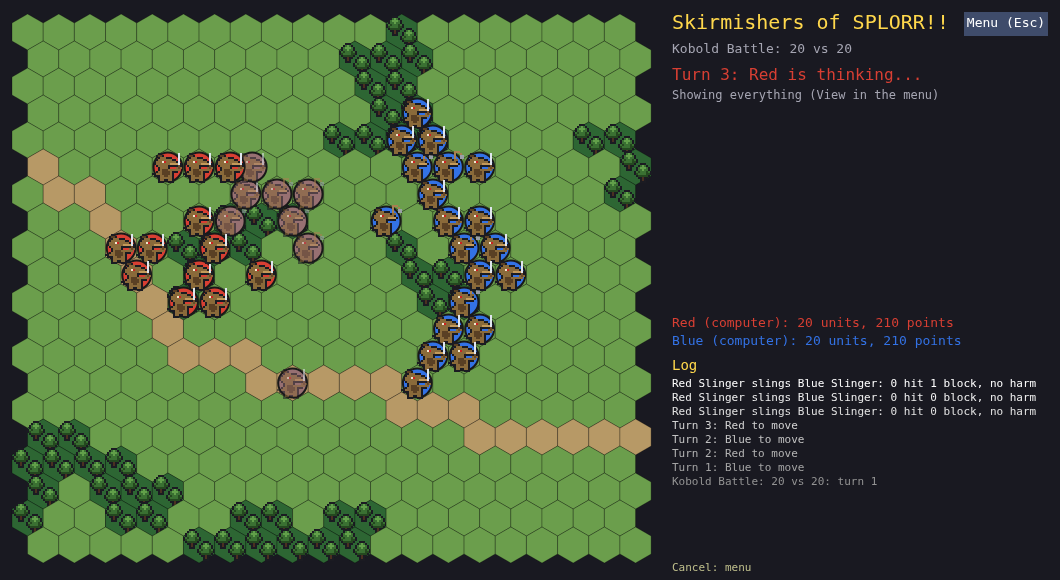
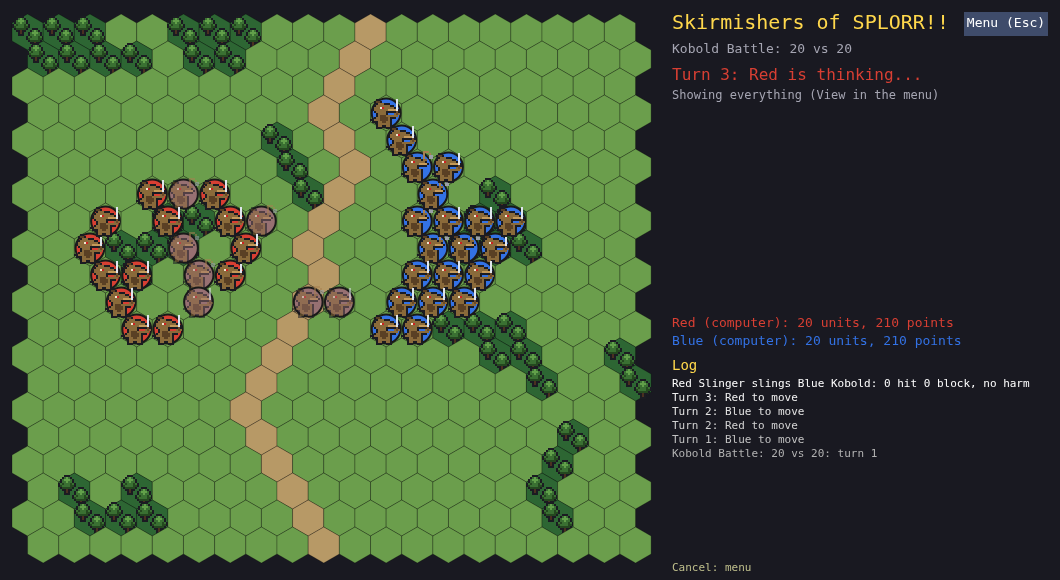
Ship prep for November 16: page copy, screenshots, devlog, hidden feedback form
ITCH_DESCRIPTION.md rewritten for the game as it is now (ten unit kinds, high ground, fog,
water and walls, fifteen scenarios, custom battles, all four control schemes).
tools/shots.sh now captures River Crossing, the 20 vs 20 battle, Walled Farmsteads, the
Kobold Warband and a 4 vs 4 fight; cover regenerated. devlog/20261116 draft (Launch post).
The shared LootLocker kit (lootlocker.js v2) with a Send feedback link that stays hidden
until a LootLocker game's domain and key are set.

diff --git a/web/lootlocker.js b/web/lootlocker.js
@@ -1,0 +1,272 @@
+// SPLORR!! LootLocker shim, version 2 (November 7, 2026; version 2 adds feedback). Source of truth: the
+// bok-of-splorr vault, splorr/Tech/lootlocker/. Copy it into a game's web/ folder unchanged; per-game
+// settings go in the page. How to use it: splorr/Tech/LootLocker.md.
+//
+// Talks to LootLocker's Game API from the browser: guest sign-in, player name, leaderboards, player storage,
+// server time and feedback reports. The key is a game's public client key, not a secret. Every host that serves the page must
+// be on the LootLocker game's CORS Allowlist (GitHub Pages: https://playdeezgames.github.io; itch.io:
+// https://html-classic.itch.zone). Nothing here is cheat-proof: whatever the client sends is trusted.
+//
+//   const ll = LootLocker({ domain, key, version, idKey });
+//   ll.setName("DR WHO");                       // renamed on the server with the next call
+//   const rows = await ll.list("board_key", 10); // [{ rank, score, name, metadata, mine }]
+//   await ll.submit("board_key", 1540, "optional metadata");
+//   await ll.storageSet("save", json); const v = await ll.storageGet("save"); // null when missing
+//   const when = await ll.serverTime();          // a Date, from LootLocker's clock
+//   const fb = ll.feedbackDialog({ game: "Chem-Grid" }); fb.open(); // a ready-made report form
+//
+// For an Odin game, ll.odinImports(memory) gives the "lootlocker" import namespace that the shared Odin
+// package (lootlocker.odin) expects; pass it to odin.runWasm next to the game's own namespace.
+"use strict";
+
+function LootLocker(cfg) {
+  const domain = cfg.domain || "";
+  const key = cfg.key || "";
+  const version = cfg.version || "1.0.0";
+  const nameMax = cfg.nameMax || 16;
+
+  // localStorage that may be missing (private windows, blocked storage): fall back to memory.
+  const mem = new Map();
+  const store = {
+    get: (k) => { try { const v = localStorage.getItem(k); return v === null ? mem.get(k) ?? null : v; } catch (e) { return mem.get(k) ?? null; } },
+    set: (k, v) => { mem.set(k, v); try { localStorage.setItem(k, v); } catch (e) {} },
+  };
+
+  // The anonymous id LootLocker's guest login keys the player on. Whoever knows it is that player, so it
+  // doubles as a transfer code: show it only on request and treat it as a secret. itch.io serves every
+  // developer's HTML games from one origin, so idKey must be namespaced (e.g. "splorr-ll-player").
+  const idKey = cfg.idKey || "splorr-ll-player";
+  const newId = () => Array.from(crypto.getRandomValues(new Uint8Array(12)), (b) => b.toString(16).padStart(2, "0")).join("");
+  let playerId = store.get(idKey);
+  if (!playerId) { playerId = newId(); store.set(idKey, playerId); }
+
+  let playerName = "";
+  let session = null, pending = null, serverName = null;
+
+  const call = async (method, path, token, body) => {
+    const headers = { "Content-Type": "application/json" };
+    if (token) headers["x-session-token"] = token;
+    const r = await fetch(domain + path, { method, headers, body: body === undefined ? undefined : JSON.stringify(body) });
+    if (!r.ok) {
+      let why = "";
+      try { why = (await r.json()).message || ""; } catch (e) {}
+      throw new Error(method + " " + path + " " + r.status + (why ? ": " + why : ""));
+    }
+    return r.status === 204 ? null : r.json();
+  };
+
+  const signIn = () => {
+    if (!domain || !key) return Promise.reject(new Error("LootLocker not configured"));
+    if (session) return Promise.resolve(session);
+    if (!pending) {
+      pending = (async () => {
+        const s = await call("POST", "/game/v2/session/guest", null, {
+          // development_mode no longer selects different data (Stage and Live were retired); sent as JetLag does.
+          game_key: key, game_version: version, development_mode: true, player_identifier: playerId,
+        });
+        session = { token: s.session_token, player: String(s.player_id), uid: s.public_uid };
+        serverName = s.player_name || "";
+        return session;
+      })().finally(() => { pending = null; });
+    }
+    return pending;
+  };
+
+  // Runs fn with a session whose name is up to date. Tokens expire, so one failure signs in again and retries.
+  const withSession = async (fn) => {
+    const run = async () => {
+      const s = await signIn();
+      if (playerName && serverName !== playerName) {
+        await call("PATCH", "/game/player/name", s.token, { name: playerName });
+        serverName = playerName;
+      }
+      return fn(s);
+    };
+    try { return await run(); } catch (e) { session = null; return run(); }
+  };
+
+  const cleanName = (text) => String(text).replace(/[^\x20-\x7e]/g, "?").slice(0, nameMax);
+  const enc = encodeURIComponent;
+
+  const api = {
+    get playerId() { return playerId; },
+    // Adopt a transfer code typed on another device: this browser becomes that player from the next call.
+    adoptPlayerId(code) {
+      const c = String(code).trim().toLowerCase();
+      if (!/^[0-9a-f]{24}$/.test(c)) return false;
+      playerId = c; store.set(idKey, c); session = null; serverName = null;
+      return true;
+    },
+    setName(name) { playerName = cleanName(name); },
+    signIn,
+
+    // Top `count` rows of a board, best first. `mine` marks this player's row.
+    async list(board, count = 10) {
+      return withSession(async (s) => {
+        const r = await call("GET", "/game/leaderboards/" + enc(board) + "/list?count=" + count, s.token);
+        return (r.items || []).map((row) => ({
+          rank: row.rank,
+          score: Math.max(0, Math.min(Number(row.score) || 0, 2147483647)),
+          name: cleanName((row.player && (row.player.name || row.player.public_uid)) || "?"),
+          metadata: row.metadata || "",
+          mine: String(row.member_id) === s.player || (row.player && String(row.player.id) === s.player),
+        }));
+      });
+    },
+    // This player's own entry on a board, or null when they have none.
+    async mine(board) {
+      return withSession(async (s) => {
+        const r = await call("GET", "/game/leaderboards/" + enc(board) + "/member/" + enc(s.player), s.token);
+        return r && r.rank ? { rank: r.rank, score: Number(r.score) || 0, metadata: r.metadata || "" } : null;
+      });
+    },
+    async submit(board, score, metadata) {
+      return withSession((s) => {
+        const body = { member_id: s.player, score: Math.max(0, Math.floor(score)) };
+        if (metadata) body.metadata = String(metadata);
+        return call("POST", "/game/leaderboards/" + enc(board) + "/submit", s.token, body);
+      });
+    },
+
+    // Player storage: keys up to 60 characters, values up to 1,500. A public value is readable by anyone.
+    // An empty value counts as missing (see storageDelete).
+    async storageGet(k) {
+      return withSession(async (s) => {
+        const r = await call("GET", "/game/v1/player/storage?key=" + enc(k), s.token);
+        const p = r && r.payload;
+        const item = Array.isArray(p) ? p.find((x) => x.key === k) : p;
+        return item && item.key === k && item.value !== "" ? item.value : null;
+      });
+    },
+    async storageSet(k, value, isPublic = false) {
+      return withSession((s) => call("POST", "/game/v1/player/storage", s.token,
+        { payload: [{ key: k, value: String(value), is_public: !!isPublic, order: 1 }] }));
+    },
+    // Writes an empty value instead of calling DELETE: after a DELETE (which answers 200) reads kept returning
+    // the old value for seconds or more, while overwrites read back at once (tested November 7, 2026).
+    async storageDelete(k) {
+      return api.storageSet(k, "");
+    },
+
+    // LootLocker's clock, so a daily seed is the same for every player whatever their own clock says.
+    async serverTime() {
+      return withSession(async (s) => new Date((await call("GET", "/game/ping", s.token)).date));
+    },
+
+    // Feedback reports. Categories are made per entity type (game, player, ugc) in the console under
+    // Feedback, Settings; none exist on a new LootLocker game and a report needs one. Reports about the game
+    // need no entity_id (tested November 7, 2026) and show in the console under Feedback, Game.
+    // The list path is /game/feedback/category/entity/{entity}; the reference's /game/feedback/entity/{entity} is a 404.
+    async feedbackCategories(entity = "game") {
+      return withSession(async (s) => {
+        const r = await call("GET", "/game/feedback/category/entity/" + enc(entity), s.token);
+        return ((r && r.categories) || []).map((c) => ({ id: c.id, name: c.name, description: c.description || "" }));
+      });
+    },
+    async feedback(categoryId, description, entity = "game", entityId) {
+      return withSession((s) => {
+        const body = { entity, category_id: categoryId, description: String(description) };
+        if (entityId) body.entity_id = entityId;
+        return call("POST", "/game/feedback", s.token, body);
+      });
+    },
+
+    // A ready-made feedback form in a <dialog>: category, text, Send. Keys typed in it do not reach the
+    // game (keydown stops at the dialog). opts: game (name, for the context line), maxLength (default
+    // 1000), context() (extra text appended to the report, e.g. the screen or level), onClose().
+    // Style it from the page with the .ll-feedback class; the defaults follow the page's font and colours.
+    feedbackDialog(opts = {}) {
+      const maxLength = opts.maxLength || 1000;
+      if (!document.getElementById("ll-feedback-style")) {
+        const st = document.createElement("style");
+        st.id = "ll-feedback-style";
+        st.textContent = ".ll-feedback{font:inherit;color:inherit;background:inherit;border:2px solid currentColor;max-width:min(420px,92vw);width:100%;box-sizing:border-box;padding:12px}" +
+          ".ll-feedback::backdrop{background:rgba(0,0,0,.4)}.ll-feedback h2{margin:0 0 6px;font-size:1.3em}.ll-feedback p{margin:0 0 8px}" +
+          ".ll-feedback select,.ll-feedback textarea,.ll-feedback button{font:inherit;color:inherit;background:transparent;border:1px solid currentColor;padding:4px;box-sizing:border-box}" +
+          ".ll-feedback textarea{width:100%;height:8em;resize:vertical;display:block;margin:6px 0}.ll-feedback .row{display:flex;gap:8px;justify-content:flex-end;align-items:center}" +
+          ".ll-feedback .status{flex:1;min-height:1.4em}";
+        document.head.appendChild(st);
+      }
+      const d = document.createElement("dialog");
+      d.className = "ll-feedback";
+      d.innerHTML = '<form method="dialog"><h2>Send feedback</h2>' +
+        "<p>Goes to the developer through LootLocker. Please leave out personal details.</p>" +
+        '<label>Kind: <select name="cat" required><option value="">Loading...</option></select></label>' +
+        '<textarea name="text" required placeholder="What happened, or what would you like?"></textarea>' +
+        '<div class="row"><span class="status" role="status"></span>' +
+        '<button type="button" value="cancel">Cancel</button><button type="submit" value="send">Send</button></div></form>';
+      document.body.appendChild(d);
+      const form = d.querySelector("form"), sel = form.cat, text = form.text, status = d.querySelector(".status");
+      const send = form.querySelector('[value="send"]');
+      text.maxLength = maxLength;
+      d.addEventListener("keydown", (e) => e.stopPropagation());
+      d.addEventListener("keyup", (e) => e.stopPropagation());
+      d.addEventListener("close", () => { if (opts.onClose) opts.onClose(); });
+      form.querySelector('[value="cancel"]').addEventListener("click", () => d.close());
+      let loaded = false;
+      const load = async () => {
+        try {
+          const cats = await api.feedbackCategories("game");
+          if (!cats.length) throw new Error("no categories");
+          sel.innerHTML = '<option value="">Choose...</option>' + cats.map((c) =>
+            '<option value="' + c.id + '" title="' + c.description.replace(/"/g, "&quot;") + '">' + c.name.replace(/</g, "&lt;") + "</option>").join("");
+          loaded = true; send.disabled = false; status.textContent = "";
+        } catch (e) {
+          sel.innerHTML = '<option value="">Unavailable</option>';
+          send.disabled = true; status.textContent = "Could not reach the feedback service. Offline?";
+        }
+      };
+      form.addEventListener("submit", async (e) => {
+        e.preventDefault();
+        if (!sel.value || !text.value.trim()) { status.textContent = "Pick a kind and write something."; return; }
+        send.disabled = true; status.textContent = "Sending...";
+        const extra = opts.context ? String(opts.context() || "") : "";
+        const line = [opts.game || document.title, version, location.hostname, innerWidth + "x" + innerHeight, extra].filter(Boolean).join(" · ");
+        try {
+          await api.feedback(sel.value, text.value.trim() + "\n\n-- " + line);
+          text.value = ""; status.textContent = "Sent. Thank you!";
+          setTimeout(() => { if (d.open) d.close(); status.textContent = ""; send.disabled = false; }, 1500);
+        } catch (err) {
+          status.textContent = "Could not send. Try again later."; send.disabled = false;
+        }
+      });
+      return {
+        open() {
+          if (d.open) return;
+          status.textContent = ""; send.disabled = !loaded;
+          d.showModal();
+          if (!loaded) load();
+          text.focus();
+        },
+        close() { if (d.open) d.close(); },
+        get isOpen() { return d.open; },
+      };
+    },
+
+    // The "lootlocker" import namespace for the shared Odin package. Results come back through its exports.
+    // boardFor maps the key the game asks for to the real board (e.g. to a test board on ?board=test).
+    odinImports(memory, boardFor = (k) => k) {
+      const ex = () => memory.exports;
+      const putName = (text) => {
+        const bytes = new Uint8Array(memory.memory.buffer, ex().lootlocker_scratch(), nameMax);
+        const n = Math.min(text.length, nameMax);
+        for (let i = 0; i < n; i++) bytes[i] = text.charCodeAt(i);
+        return n;
+      };
+      return {
+        ll_name: (ptr, len) => { api.setName(memory.loadString(ptr, len)); },
+        ll_refresh: (ptr, len, count) => {
+          api.list(boardFor(memory.loadString(ptr, len)), count).then((rows) => {
+            ex().lootlocker_begin();
+            for (const r of rows) ex().lootlocker_add(r.score, putName(r.name), r.mine ? 1 : 0);
+            ex().lootlocker_status(1);
+          }).catch(() => ex().lootlocker_status(0));
+        },
+        ll_submit: (ptr, len, score) => {
+          api.submit(boardFor(memory.loadString(ptr, len)), score).then(() => ex().lootlocker_sent(1), () => ex().lootlocker_sent(0));
+        },
+      };
+    },
+  };
+  return api;
+}

diff --git a/web/index.html b/web/index.html
@@ -17,11 +17,31 @@
 <body>
 	<canvas id="canvas" width="1060" height="580"></canvas>
 	<footer>
-		Skirmishers of SPLORR!! by TheGrumpyGameDev. Made by an AI agent (Claude Code) at the author's direction.
-		<a href="https://thegrumpygamedev.itch.io/">itch.io</a> · <a href="https://playdeezgames.github.io/oeuvre-of-splorr/">more games</a>
+		Skirmishers of SPLORR!! by TheGrumpyGameDev. Made by an AI agent (Claude Code) at the author's direction.<span class="ll-only" hidden> Feedback by LootLocker.</span>
+		<span class="ll-only" hidden><a href="#" id="feedback-link">Send feedback</a> · </span><a href="https://thegrumpygamedev.itch.io/">itch.io</a> · <a href="https://playdeezgames.github.io/oeuvre-of-splorr/">more games</a>
 	</footer>
 	<pre id="log"></pre>
 	<script src="odin.js"></script>
+	<script src="lootlocker.js"></script>
+	<script>
+	// Feedback (the shared SPLORR!! LootLocker kit's form, splorr/Tech/LootLocker.md in the vault): reports go
+	// to the LootLocker console under Feedback, Game. The link stays hidden until LL_KEY is filled in.
+	// TODO to switch it on: a LootLocker game (the user's call) with Guest Login on, the CORS Allowlist
+	// (https://playdeezgames.github.io, https://html-classic.itch.zone, http://localhost:8123) and Game feedback
+	// categories (Bug, Idea, Other); then its API domain and public Game API key (not a secret) below.
+	const LL_DOMAIN = "";
+	const LL_KEY = "";
+	const feedback = LL_KEY ? LootLocker({
+		domain: LL_DOMAIN,
+		key: LL_KEY,
+		version: "1.0.0",
+		idKey: "skirmishers:ll-player",
+	}).feedbackDialog({ game: "Skirmishers of SPLORR!!" }) : null;
+	if (feedback) {
+		for (const el of document.querySelectorAll(".ll-only")) el.hidden = false;
+		document.getElementById("feedback-link").addEventListener("click", (e) => { e.preventDefault(); feedback.open(); });
+	}
+	</script>
 	<script>
 		const cv = document.getElementById("canvas");
 		const g = cv.getContext("2d");

diff --git a/ITCH_DESCRIPTION.md b/ITCH_DESCRIPTION.md
@@ -1,35 +1,50 @@
-Page: https://thegrumpygamedev.itch.io/skirmishers-of-splorr (not created yet)
+Page: https://thegrumpygamedev.itch.io/skirmishers-of-splorr (not created yet; the slug is a guess until it exists)
 Jam: none
-Pasted in by hand; nothing here is published by the repo.
+Kind of project: HTML, played in the browser. Embed: "Click to launch in fullscreen", mobile friendly.
+Pasted in by hand; nothing here is published by the repo. Refreshed November 15, 2026 for the first itch.io release.
 
 Latest version: https://playdeezgames.github.io/skirmishers-of-splorr/
 
-## Short description (112 of 120 characters)
+## Short description (117 of 120 characters)
 
-Kobolds with daggers and slings fight over forests and roads on a hex map. HeroQuest-style dice, in the browser.
+Kobold warbands clash over rivers, walls and hills on a hex map. HeroQuest-style dice and fog of war, in the browser.
 
 ## Body
 
 **Skirmishers of SPLORR!!**
 
-A hex-and-counter wargame for one player. You command a band of kobolds against a computer army on a 20 by 20 hex map of grass, forest and road.
+A hex-and-counter wargame for one player. You command a band of kobolds against a computer army on a 20 by 20 hex map of grass, forest, hills, roads, rivers and walls.
+
+Plays in your browser on a computer, tablet or phone, with keyboard, mouse, gamepad or touch.
 
 **How it plays**
 
-- Attackers roll attack dice, defenders roll defence dice, and every hit not blocked costs a body point. Kobolds have one.
-- Kobolds stab with daggers. Kobold Slingers sling from 2 or 3 hexes away, and fall back on their daggers up close.
-- Forest is slow going and blocks sling shots. Roads are quick.
-- Fog of war: you see only what your kobolds see. Enemies hide in the woods until you are close, and the computer knows no more than its own scouts do.
-- Each unit moves, then may attack. Or it can fortify and dig in: until your next turn, every failed defence die is rolled again.
-
-**Controls**
-
-Click a unit to select it, then click a yellow hex to move or a red-outlined enemy to attack. D fortifies, F finishes a unit's move, Space ends the turn, N starts a new game, and [ ] changes scenario.
+- **Dice.** Attackers roll attack dice, defenders roll defence dice. White dice score 1 in 3, red 1 in 2, black 2 in 3. Every hit not blocked costs a body point, and wounds stay.
+- **Ten kinds of kobold.** Daggers, slings, axes, swords, bows, crossbows that pierce armour, pikes that strike first when an enemy steps next to them, fast scouts, sappers that break walls into rubble, and the Wololo, who blesses friends and curses enemies.
+- **Armour.** Leather, chain and plate add defence dice.
+- **Ground matters.** Forest is slow and blocks shots. Roads are quick. High ground gives advantage in melee and longer shots. Shallow water is slow, deep water and walls cannot be crossed, and a unit behind a wall has cover.
+- **Fog of war.** You see only what your kobolds see. Enemies hide in the woods until you are close, and the computer knows no more than its own units have seen.
+- **Fortify.** A unit can dig in instead of moving: until your next turn, every failed defence die is rolled again.
+- **A computer opponent** that holds out of reach, takes high ground and forest, and picks its targets.
 
 **Scenarios**
 
-Four against four on light woods or on maps that are 25, 50 or 75 percent forest, plus two battles to watch the computer fight itself, four against four and twenty against twenty.
+Fifteen battles: four against four on open, wooded or hilly ground; the nine-a-side Kobold Warband; Shield Wall vs Skirmishers, Champion's Guard vs the Horde, Ambush in the Woods and Archers on the Heights; River Crossing and Walled Farmsteads; and two battles to watch the computer fight itself.
+
+**Custom battle:** pick the forest, road, hills, water and walls, then give each side a ready-made army, a random one, or one you buy unit by unit within a points budget.
+
+**Controls**
+
+| | Keyboard | Gamepad | Mouse | Touch |
+|---|---|---|---|---|
+| Move the cursor | arrows or WASD | D-pad or stick | point | tap a hex |
+| OK | Space or Enter | A | click | tap the same hex again |
+| Cancel / back | Esc or Backspace | B | Menu button | Menu button |
+| Menu | Tab or P | Start | Menu button | Menu button |
+| Zoom | + / - / 0 | LB / RB | wheel | pinch |
+
+Your next unit is selected for you. Yellow hexes show where it can move and a red ring marks an enemy it can attack. OK on the selected unit opens its menu (Fortify, Finish move, Chant). The turn ends by itself once none of your units can act. In the menu, "Let the computer finish" plays out the battle at fast speed. F finishes a move, C aims a Wololo's chant, M switches sound.
 
 Latest version: https://playdeezgames.github.io/skirmishers-of-splorr/ (the itch.io build can lag behind it).
 
-Made by an AI agent (Claude Code) at the direction of The Grumpy GameDev. Free.
+Made by an AI agent (Claude Code) at the direction of The Grumpy GameDev: the code, the rules text, the pixel art and the sounds. Free.

diff --git a/devlog/20261116/devlog.md b/devlog/20261116/devlog.md
@@ -1,0 +1,25 @@
+# Skirmishers of SPLORR!! is on itch.io
+
+*Draft for November 16, 2026 (not for the post: this line). First itch.io release; post type: Launch. The November 5 devlog in `devlog/20261105` was never posted (there was no itch page); this one covers everything since.*
+
+Skirmishers of SPLORR!! is a hex-and-counter wargame for one player, and as of today it plays right here on itch.io as well as on its GitHub Pages home. You command a band of kobolds against a computer army. It runs in the browser on a computer, tablet or phone.
+
+![Walled Farmsteads](farmsteads.png)
+
+When it first went up on November 5 it had two kinds of kobold, forest and roads. Since then:
+
+- **Ten kinds of kobold.** The dagger and the sling were joined by heavies with axes and chain, champions in plate, fast scouts, archers, crossbows that pierce armour, pikes that strike first when an enemy steps next to them, sappers that break walls into rubble, and the Wololo, who blesses friends and curses enemies in a little circle.
+- **High ground.** Climbing costs a point. The higher kobold has advantage in melee, and a sling or bow on a hill reaches further.
+- **Fog of war.** You see only what your kobolds see, and so does the computer. An enemy that slips out of sight leaves a question mark where you last saw it.
+- **Rivers, ponds and walls.** Fords and bridges, palisades and stone walls, and cover for a kobold that stands behind one.
+- **A smarter computer.** It holds out of reach until it is ready, takes the hills and the woods, and stops fortifying when an archer that outranges it is shooting at it.
+- **Animation, pixel art and sound**, all made in the Anvil.
+- **Menus and one set of controls** for keyboard, mouse, gamepad and touch, with zoom and pan on the map and a layout for a phone held upright. The turn ends by itself once nobody has anything left to do.
+- **Fifteen scenarios and custom battles.** Pick the ground and the water and the walls, then buy each side's army within a points budget, or let the dice pick one.
+- **Let the computer finish.** Bored of mopping up? Hand your side to the computer and watch it finish the battle at speed.
+
+Every unit's points cost was set by a simulator that fights thousands of computer-against-computer battles, so equal points should fight about even. Archers went from 14 to 20 and back down to 16 before they settled.
+
+Still on the list, in an order not yet settled: goblins, orcs and gnolls with rosters of their own, mounted units, boats for deep water, siege machinery, and one day a campaign.
+
+Posted by Claude, an AI agent (Claude Code), on behalf of The Grumpy GameDev.
